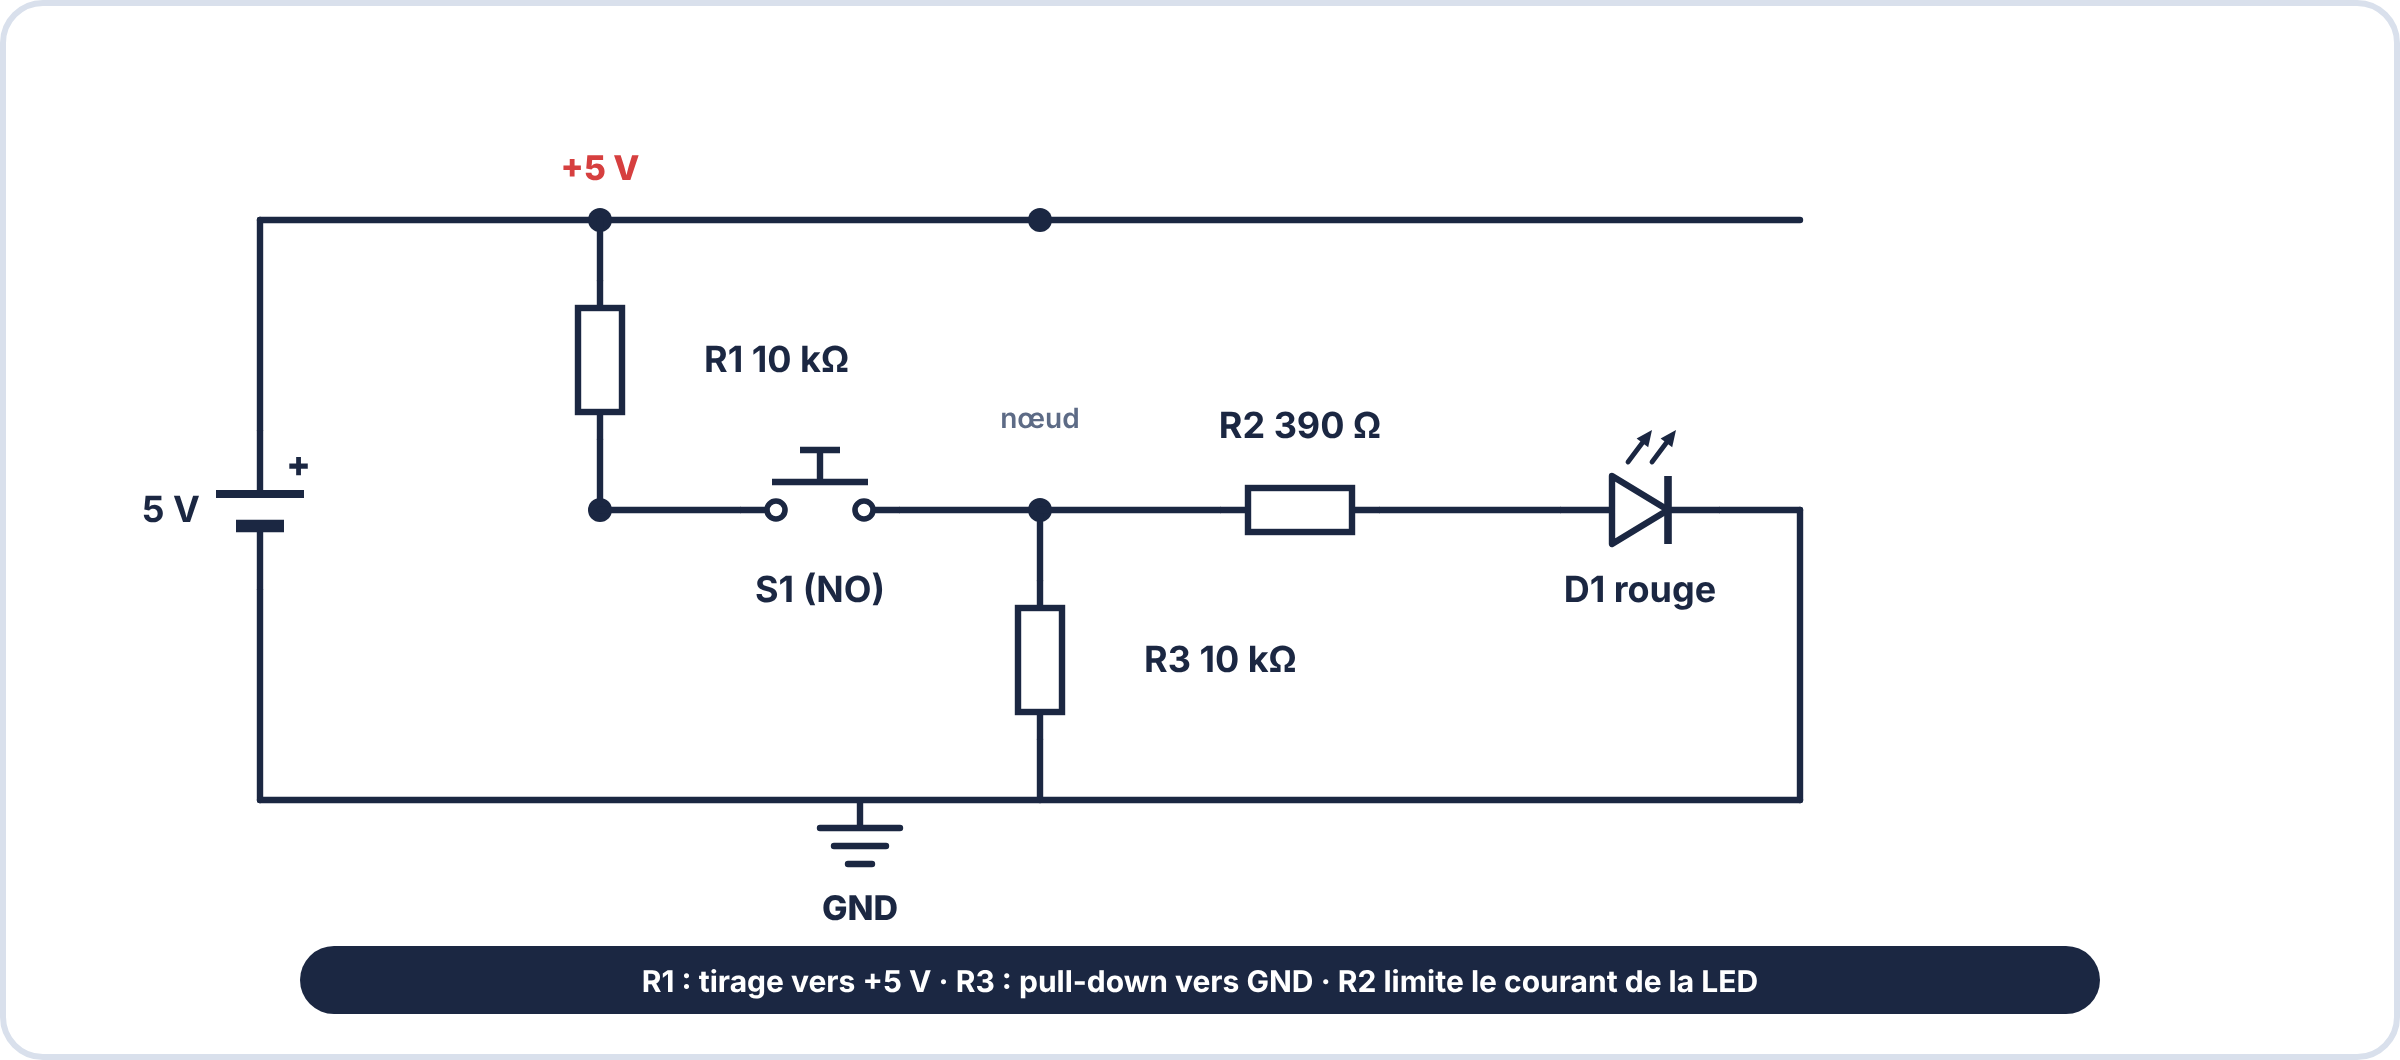
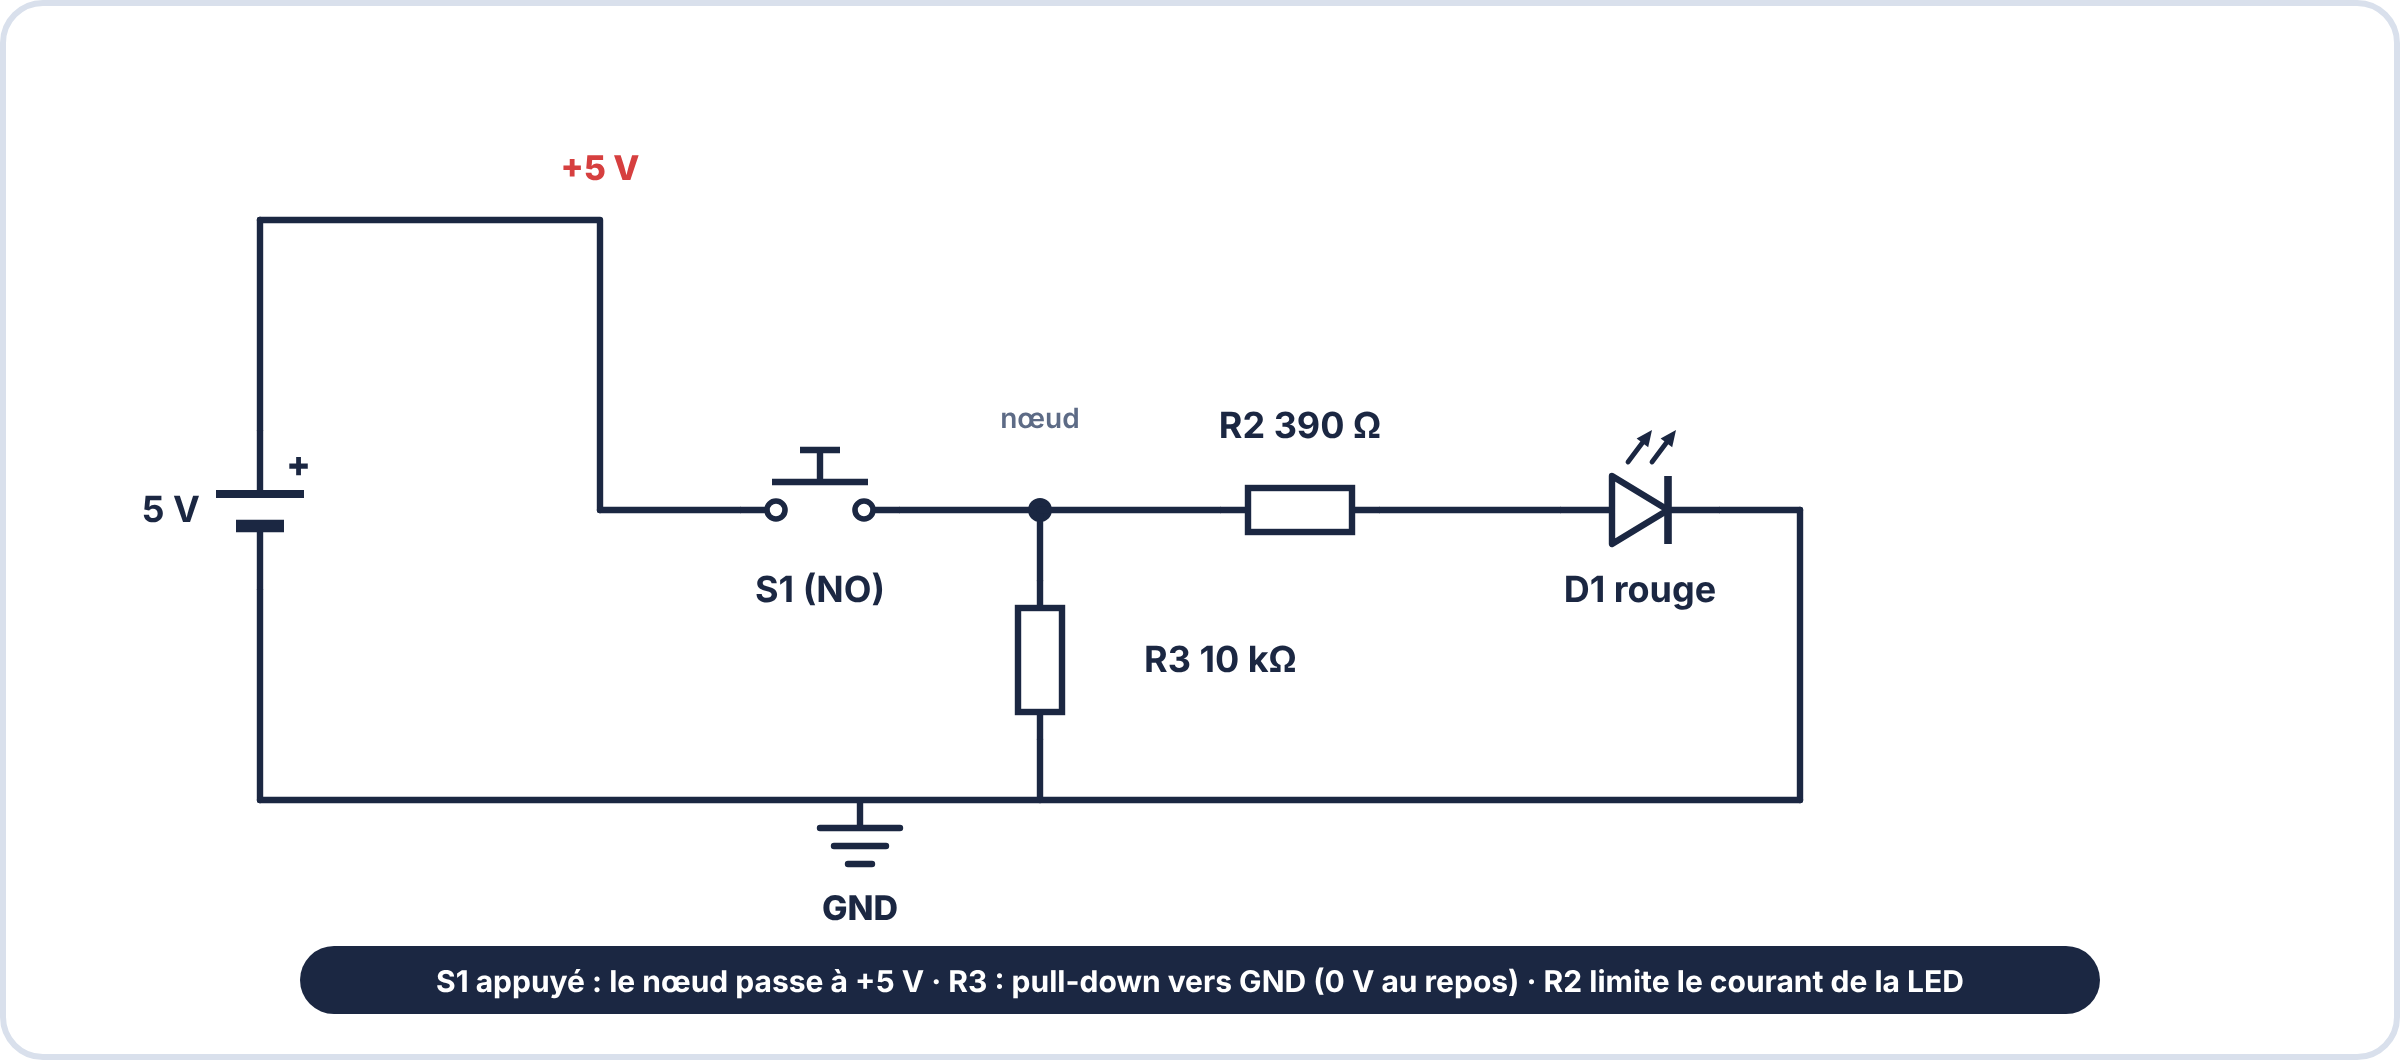
Schéma S06 : suppression de la piste du haut non connectée et de R1 ; le bouton alimente le nœud (pull-down R3)
Claude-Session: https://claude.ai/code/session_018Ln2Xo12prChdSPrkdSn9D

Changed region(s): [[0.1875, 0.9028, 0.8125, 0.934], [0.25, 0.1868, 0.75, 0.2179], [0.2188, 0.2802, 0.3438, 0.4047]]

diff --git a/outils/illustrations-e2/figs_sec6.py b/outils/illustrations-e2/figs_sec6.py
@@ -130,15 +130,14 @@ def f_sym_avances():
 
 def f_schema_bp_led():
     L, Tp, B = 130, 110, 400
-    o = vrun(L, Tp, B, [(255, "BAT", "5 V", {})], -1) + s_wire([(L, Tp), (900, Tp)]) + dot(300, Tp) + dot(520, Tp)
+    o = vrun(L, Tp, B, [(255, "BAT", "5 V", {})], -1) + s_wire([(L, Tp), (300, Tp), (300, 255)])
     o += vrun(300, Tp, 255, [(180, "R", "R1 10 kΩ", {})], 1, 60) + dot(300, 255) if False else ""
-    o += vrun(300, Tp, 255, [(180, "R", "R1 10 kΩ", {})], 1, 52) + dot(300, 255) + s_wire([(300, 255), (300, 255)])
     o += s_wire([(300, 255), (330, 255)]) if False else ""
     o += hrun(255, 300, 520, [(410, "BP", "S1 (NO)", {"below": True})]) + dot(520, 255)
     o += vrun(520, 255, 400, [(330, "R", "R3 10 kΩ", {})], 1, 52) if False else vrun(520, 255, B, [(330, "R", "R3 10 kΩ", {})], 1, 52)
     o += hrun(255, 520, 880, [(660, "R", "R2 390 Ω", {}), (820, "LED", "D1", {"below": True})]) if False else hrun(255, 520, 900, [(650, "R", "R2 390 Ω", {}), (820, "LED", "D1 rouge", {"below": True})])
     o += s_wire([(900, 255), (900, B)]) + s_wire([(L, B), (900, B)]) + dot(520, B) + gnd(520, B) if False else s_wire([(900, 255), (900, B)]) + s_wire([(L, B), (900, B)]) + gnd(L + 300, B) + T(L + 300, B + 60, "GND", 17, 800, INK)
-    o += T(300, 90, "+5 V", 17, 800, RED) + T(520, 214, "nœud", 14, 600, MUTED) + chip(600, 490, "R1 : tirage vers +5 V · R3 : pull-down vers GND · R2 limite le courant de la LED", INK, w=900, size=15)
+    o += T(300, 90, "+5 V", 17, 800, RED) + T(520, 214, "nœud", 14, 600, MUTED) + chip(600, 490, "S1 appuyé : le nœud passe à +5 V · R3 : pull-down vers GND (0 V au repos) · R2 limite le courant de la LED", INK, w=900, size=15)
     return figure(W, 530, o)
 
 
